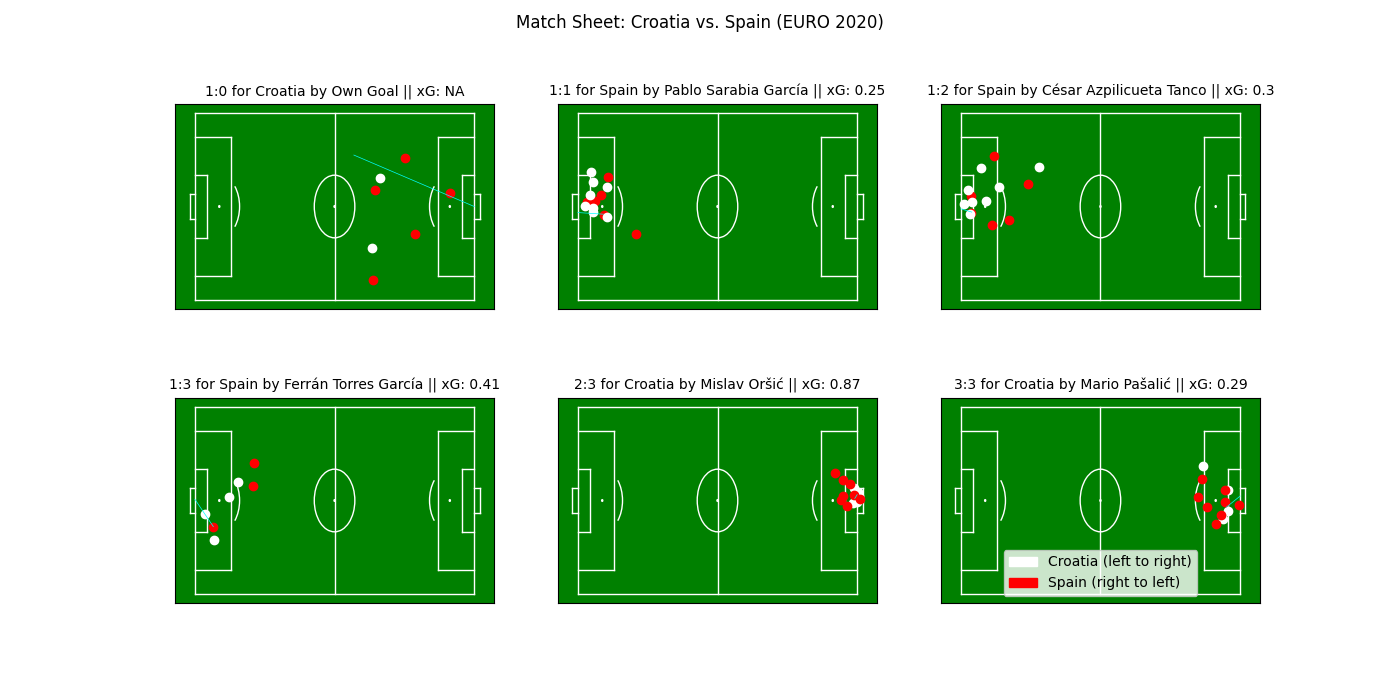
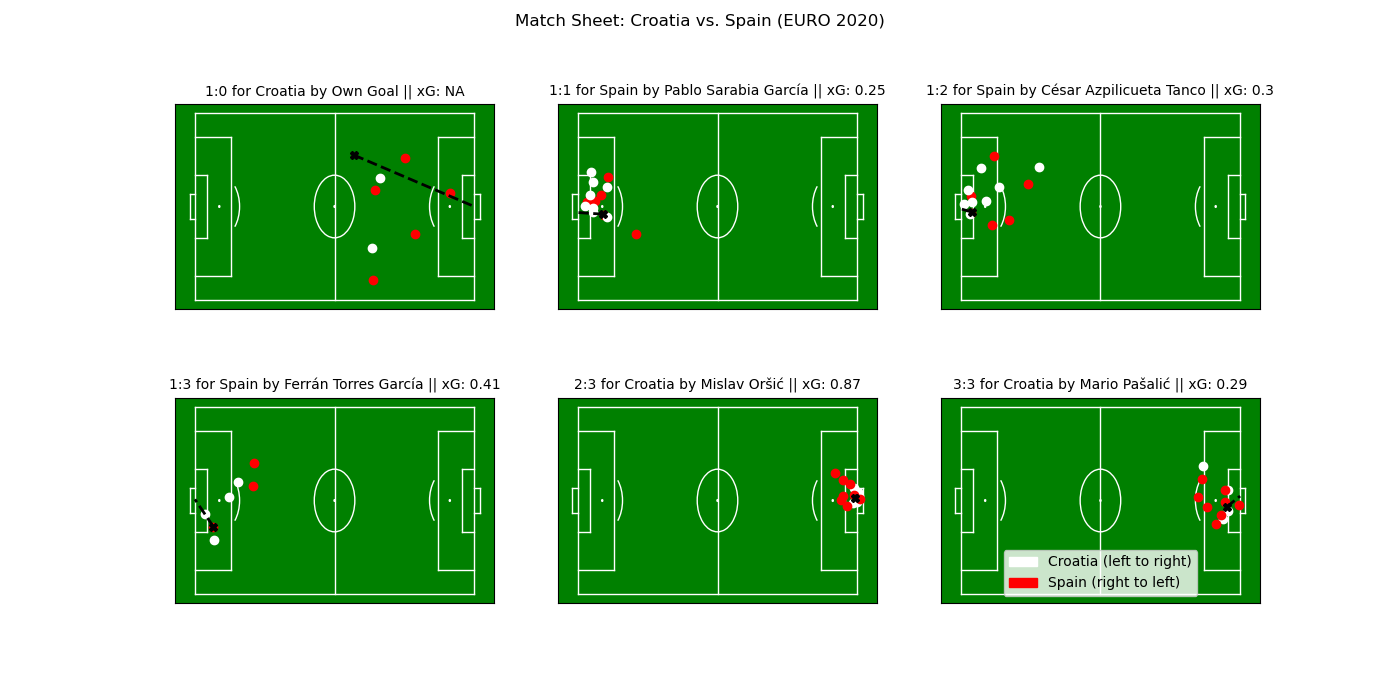
docs: update tutorial matchsheets (#95)
* fix: correct variable names

* docs: update match sheet graphics

diff --git a/docs/source/guides/tutorial_matchsheets.rst b/docs/source/guides/tutorial_matchsheets.rst
@@ -78,7 +78,6 @@ Finally, we collect all goals into a single pandas DataFrame.
         )
     ).sort_values("gameclock")
 
-
 Here's the (formatted) DataFrame you should get:
 
 ====  ========== ====== ==== ======== ======== ============ ======= ======= ====== ===== ====== ===== ============= ======================== ========== ==========
@@ -105,7 +104,7 @@ Alright, now let's try to extract the relevant information from the above DataFr
         scoring_team = goal["team_name"]
         if goal["event_name"] == "Shot":
             scoring_player = goal["player_name"]
-            xG = ast.literal_eval(goal["qualifier"])['shot']['statsbomb_xg']
+            xG = ast.literal_eval(goal["qualifier"])["shot"]["statsbomb_xg"]
         else:
             scoring_player = "Own Goal"
             xG = None
@@ -123,13 +122,14 @@ Next, we deal with the previously mentioned StatsBomb360 position data. The appr
         freeze_frame = ast.literal_eval(goal["qualifier"])["360_freeze_frame"]
 
         # set "to-location" to goal center if not available
+        at_x, at_y, to_x, to_y = goal["at_x"], goal["at_y"], goal["to_x"], goal["to_y"]
         if np.isnan(goal["to_x"]):
-            goal["to_x"] = 120
+            to_x = 120
         if np.isnan(goal["to_y"]):
-            goal["to_y"] = 40
+            to_y = 40
 
         # create arrays
-        xy_ball = np.array([[goal["at_x"], goal["at_y"]], [goal["to_x"], goal["to_y"]]])
+        xy_ball = np.array([[at_x, at_y], [to_x, to_y]])
         xy_off = np.array(
             [player["location"] for player in freeze_frame if player["teammate"]]
         )
@@ -155,11 +155,11 @@ Now we can use the predefined functions to create a plot of a single goal (e.g. 
 
     import matplotlib.pyplot as plt
 
-    goal = all_goals.iloc[-1]
+    goal = all_goals.loc[all_goals.index[-1]]
 
     fig, ax = plt.subplots()
     scoring_team, scoring_player, xG = get_goal_info(goal)
-    ax[i, j].set_title(
+    ax.set_title(
         f"Goal for {scoring_team} by {str(scoring_player)} "
         f"|| xG: {round(xG, 2) if xG is not None else 'NA'}",
         fontdict={'size': 9}
@@ -168,7 +168,17 @@ Now we can use the predefined functions to create a plot of a single goal (e.g. 
     xy_ball, xy_off, xy_def = get_xy_data(goal)
     xy_off.plot(t=0, ax=ax, color="red")
     xy_def.plot(t=0, ax=ax, color="white")
-    xy_ball.plot(t=(0, 2), plot_type="trajectories", color="cyan", ball=True, ax=ax)
+    xy_ball.plot(
+        t=(0, 2),
+        plot_type="trajectories",
+        ball=True,
+        color="k",
+        linewidth=2,
+        linestyle="--",
+        marker="X",
+        markevery=[0],
+        ax=ax,
+    )
 
 .. image:: ../_img/tutorial_matchsheets_singlegoal.png
 
@@ -201,24 +211,24 @@ Now we create the match sheet by iterating over all goals and updating the respe
     row, col, home_score, away_score = 0, 0, 0, 0
     colors = {"Croatia": "white", "Spain": "red"}
 
-    for _, goal in all_goals.iterrows():
+    for i in all_goals.index:
 
         # display meta information
-        scoring_team, scoring_player, xG = get_goal_info(goal)
+        scoring_team, scoring_player, xG = get_goal_info(all_goals.loc[i])
         if scoring_team == "Croatia":
             conceding_team = "Spain"
             home_score += 1
         else:  # score by Spain
             conceding_team = "Croatia"
             away_score += 1
-        ax[i, j].set_title(
+        ax[row, col].set_title(
             f"{home_score}:{away_score} for {str(scoring_team)} by {str(scoring_player)} "
             f"|| xG: {round(xG, 2) if xG is not None else 'NA'}",
-            fontdict={'size': 10}
+            fontdict={"size": 10},
         )
 
         # get position data
-        xy_ball, xy_off, xy_def = get_xy_data(goal)
+        xy_ball, xy_off, xy_def = get_xy_data(all_goals.loc[i])
         # rotate position data towards left goal for Spain
         if scoring_team == "Spain":
             xy_off.rotate(180)
@@ -228,11 +238,19 @@ Now we create the match sheet by iterating over all goals and updating the respe
             xy_ball.rotate(180)
             xy_ball.translate((pitch.xlim[1], pitch.ylim[1]))
         # plot pitch and position data
-        pitch.plot(ax=ax[i, j])
-        xy_off.plot(t=0, ax=ax[i, j], color=colors[scoring_team])
-        xy_def.plot(t=0, ax=ax[i, j], color=colors[conceding_team])
+        pitch.plot(ax=ax[row, col])
+        xy_off.plot(t=0, ax=ax[row, col], color=colors[scoring_team])
+        xy_def.plot(t=0, ax=ax[row, col], color=colors[conceding_team])
         xy_ball.plot(
-            t=(0, 2), plot_type="trajectories", color="cyan", ball=True, ax=ax[i, j]
+            t=(0, 2),
+            plot_type="trajectories",
+            ball=True,
+            color="k",
+            linewidth=2,
+            linestyle="--",
+            marker="X",
+            markevery=[0],
+            ax=ax[row, col],
         )
 
         # update grid position
